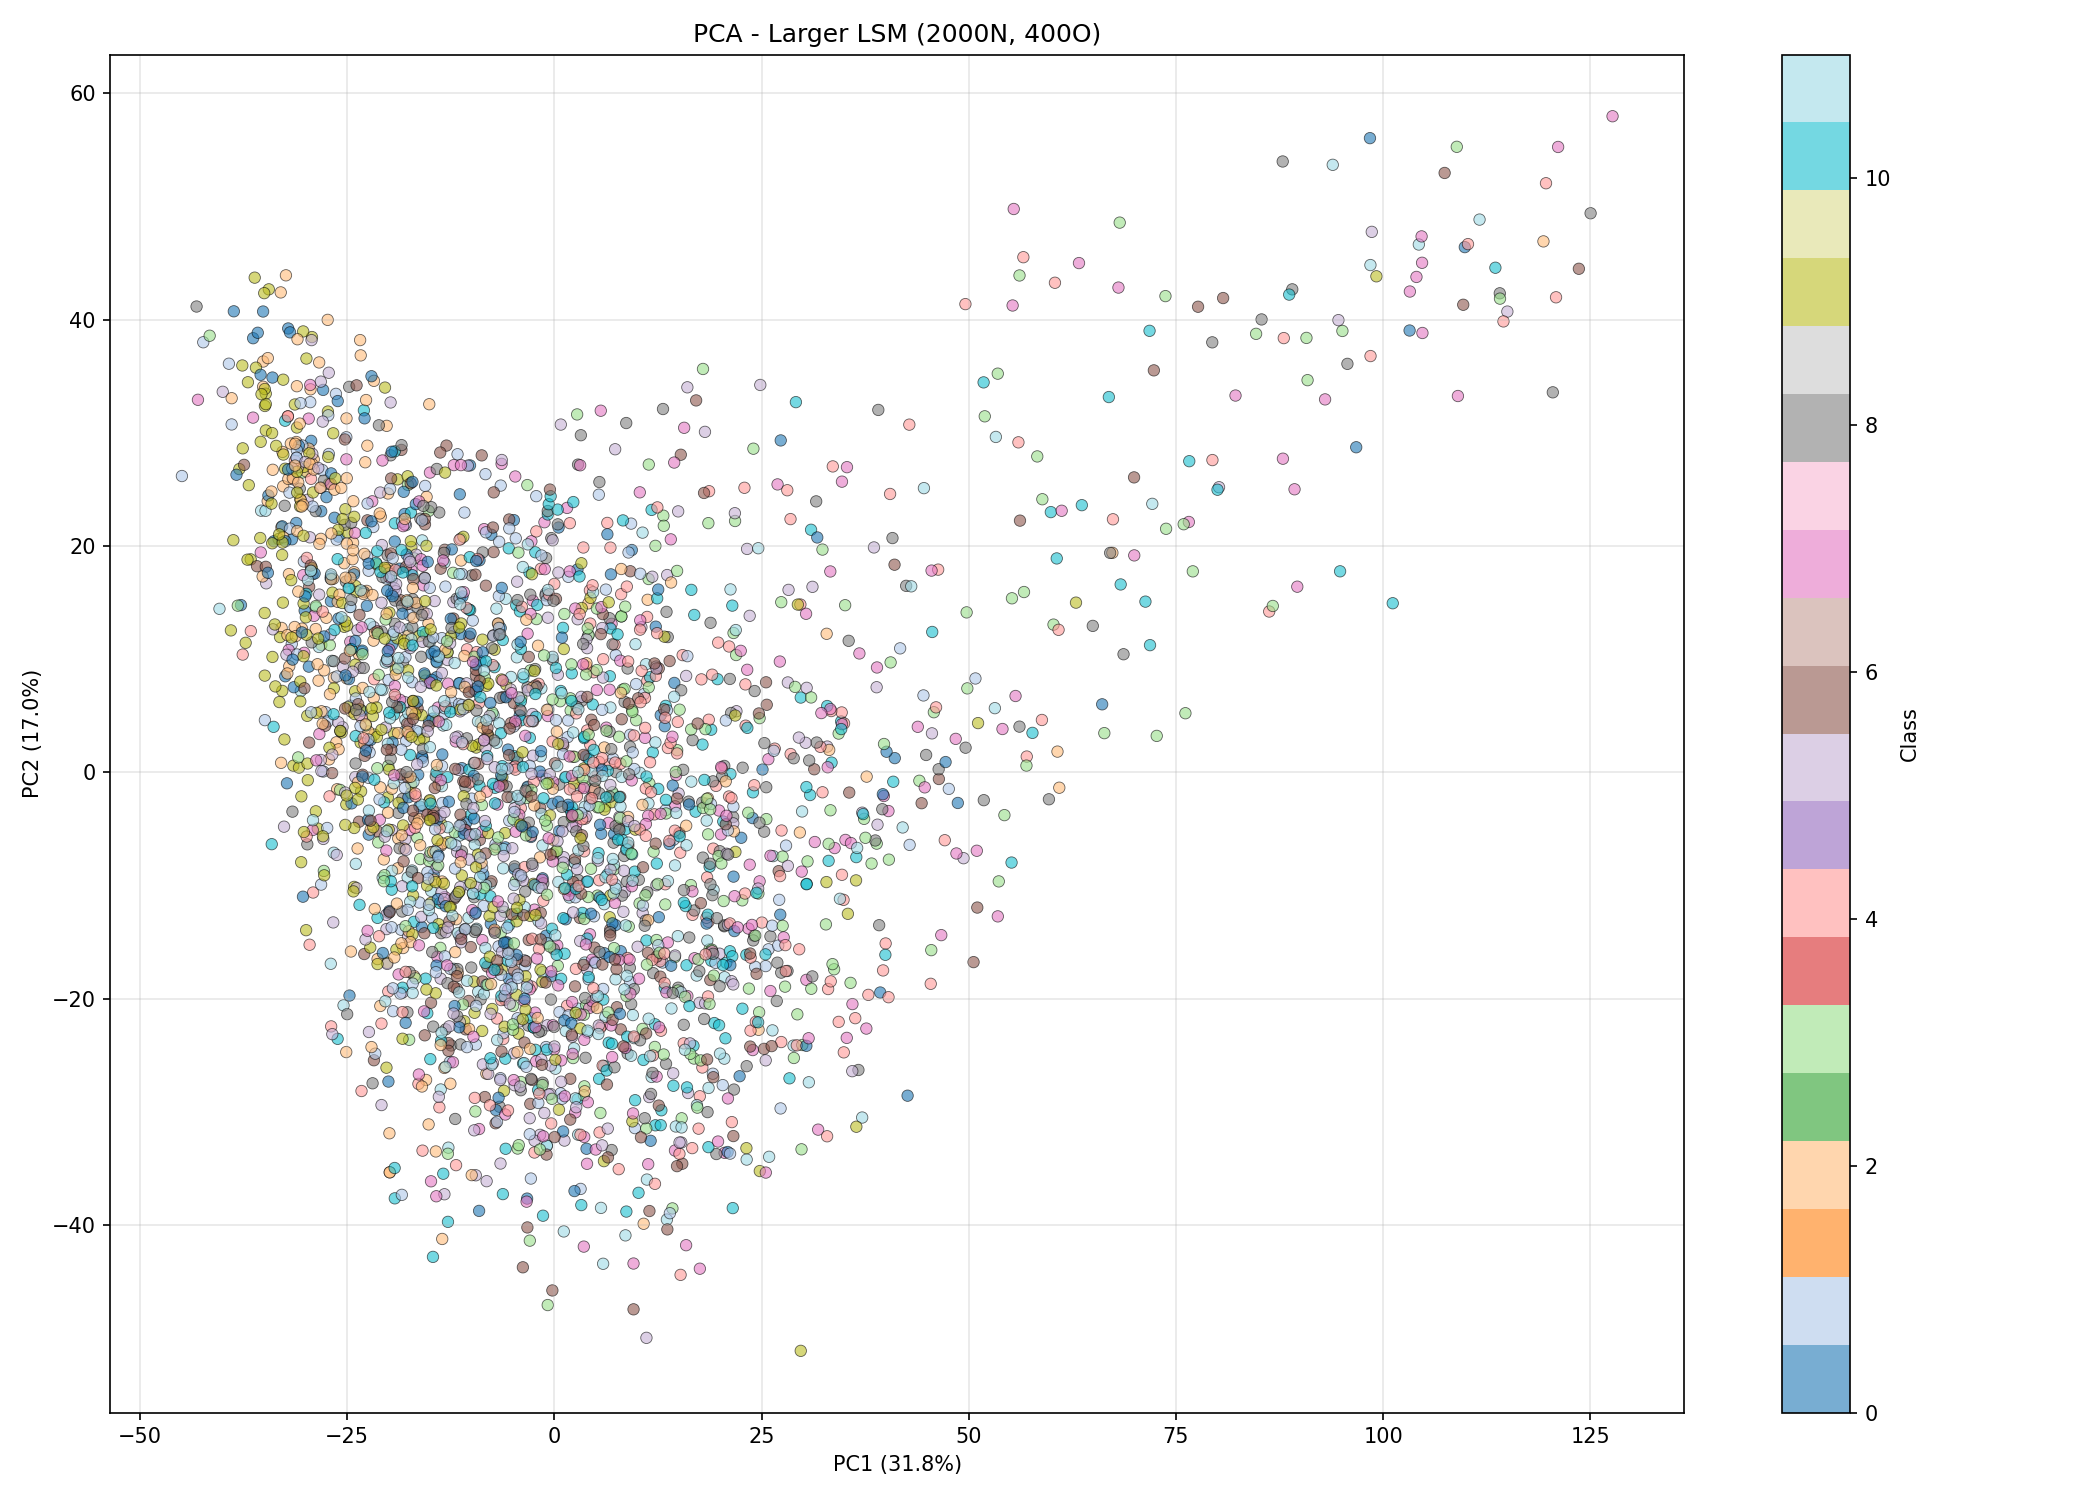
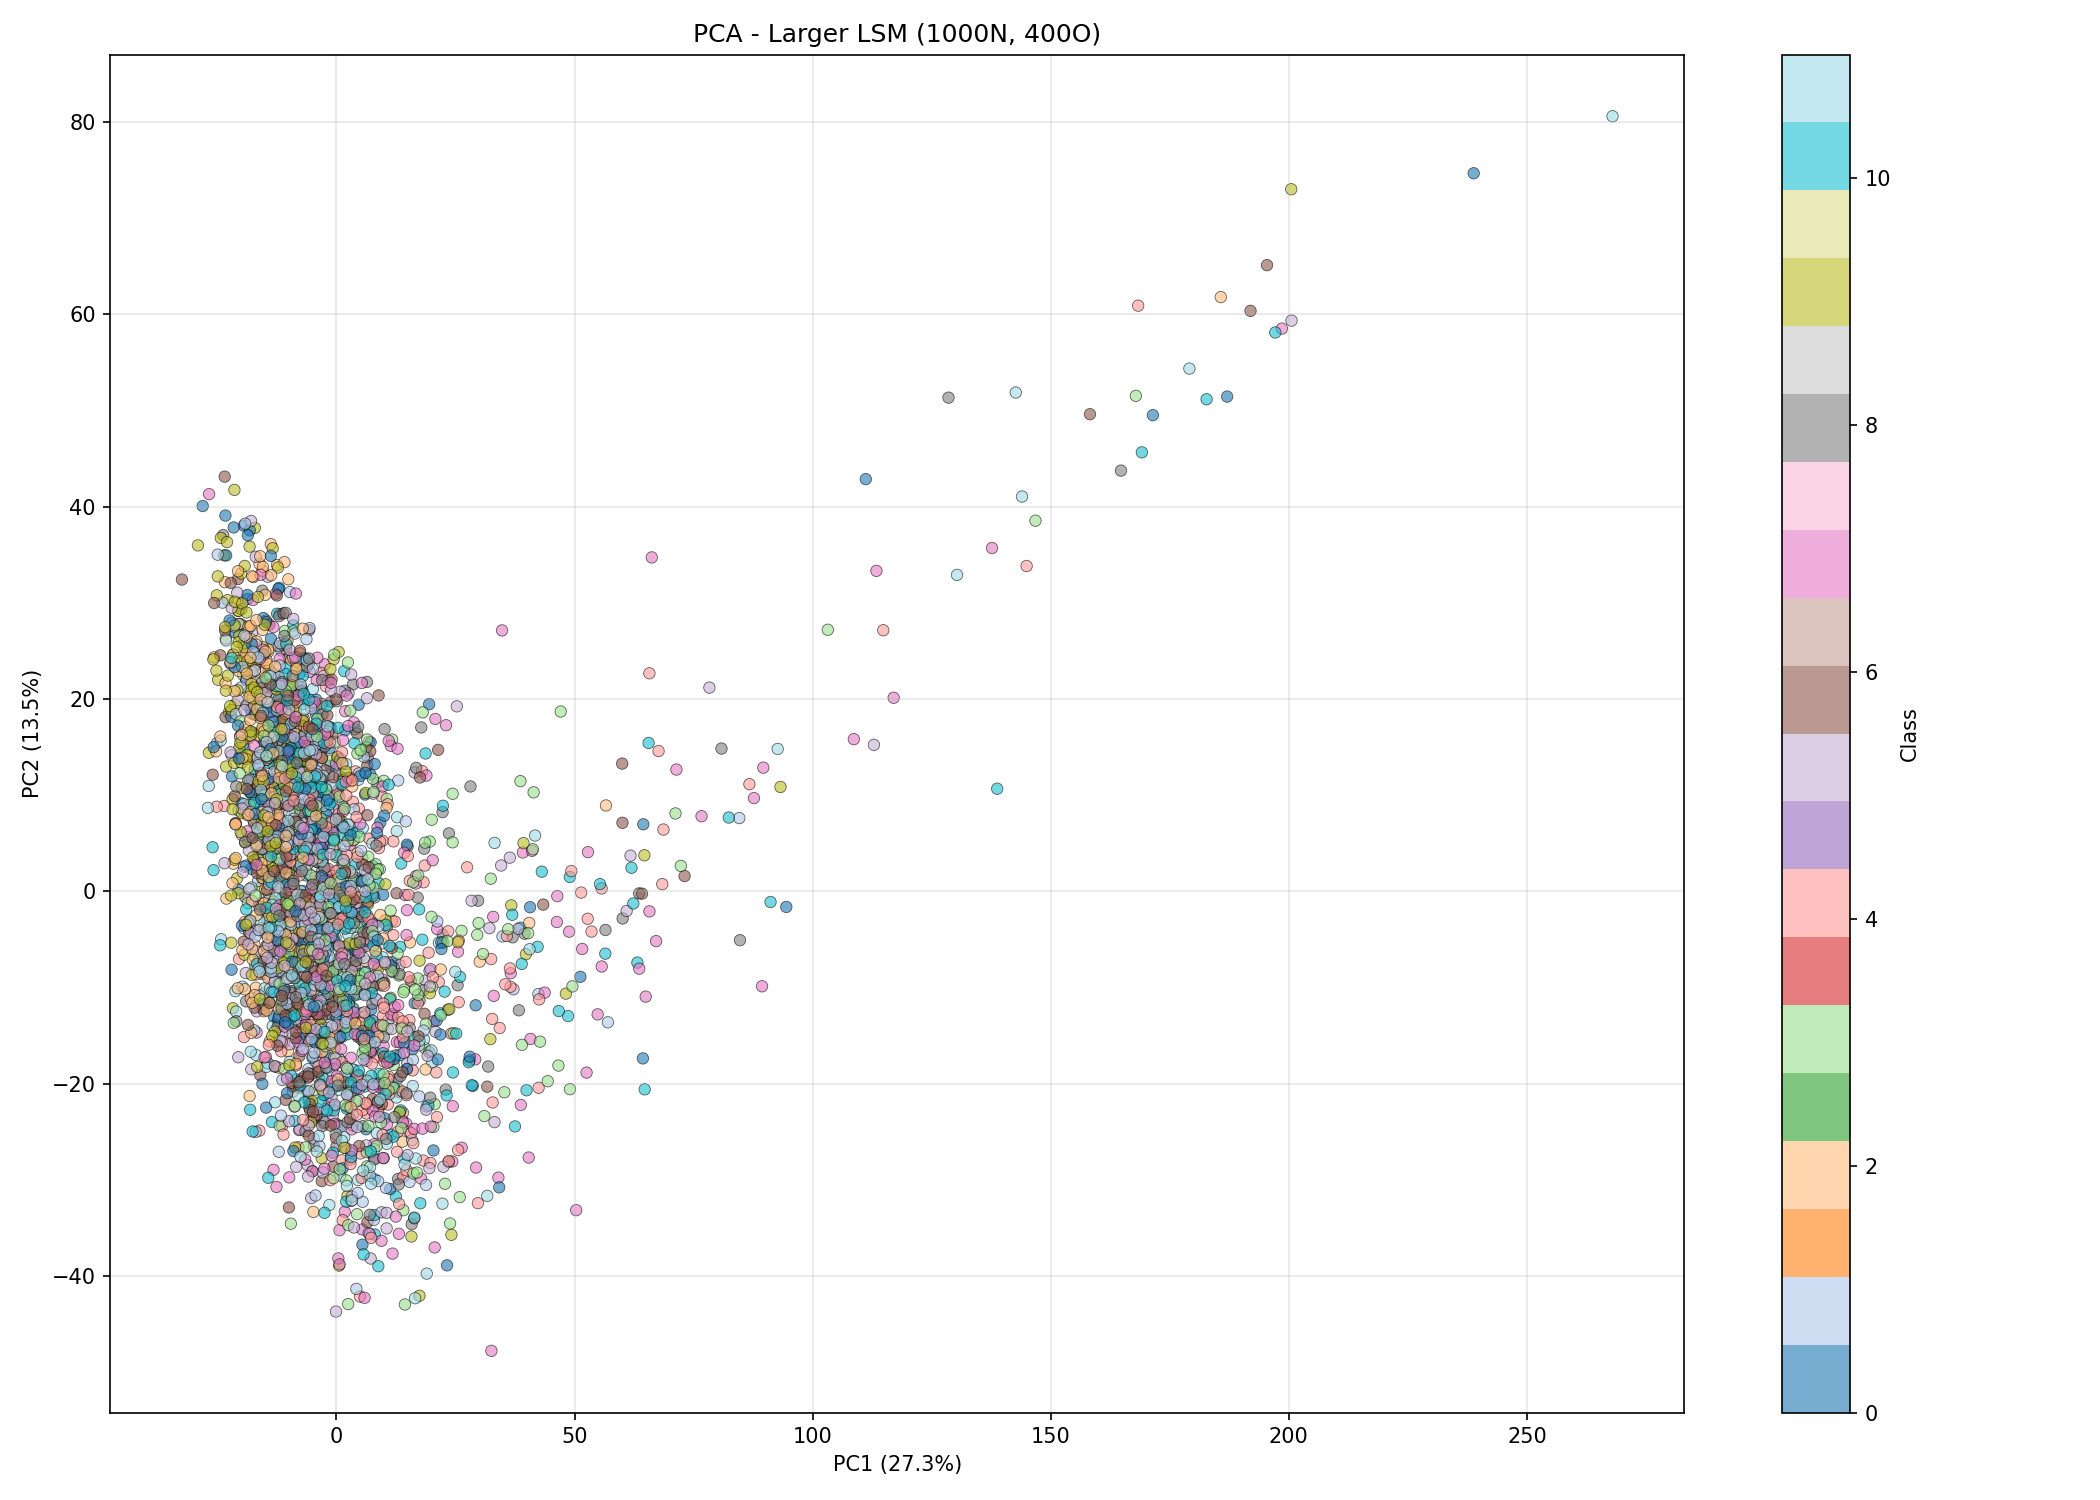
hysteresis implemented

diff --git a/spect_to_spike_train.py b/spect_to_spike_train.py
@@ -1,40 +1,33 @@
-"""
-PURE SIGNAL REDUNDANCY - No jittering, just multiple pathways
-
-Each spike train is sent to multiple input neurons EXACTLY as-is.
-This creates:
-- Multiple entry points into the reservoir for the same signal
-- Different random connections to reservoir neurons
-- Potentially more robust feature extraction through averaging
-
-Key: The redundancy benefit comes from DIFFERENT reservoir connections,
-     not from adding noise to the input.
-"""
-
 import librosa
 import numpy as np
 import matplotlib.pyplot as plt
 from pathlib import Path
 from scipy.ndimage import zoom
 from tqdm import tqdm
+import warnings # <-- Added import
 
 SAMPLE_RATE = 16000 # 8Hz / 32Hz
 DURATION = 1.0
-N_MELS = 80  # Base number of mel bins
+N_MELS = 200  # Base number of mel bins
 TIME_BINS = 100
-SPIKE_THRESHOLDS = [0.60, 0.70, 0.80, 0.90]  # provare rate encoding invece che temoporal   
+SPIKE_THRESHOLDS = [0.60, 0.70, 0.80, 0.90]     
+HYSTERESIS_GAP = 0.05 # <-- Added Hysteresis Gap
 MAX_SAMPLES_PER_CLASS = 1000
 VISUALIZE_FIRST_SAMPLE = False
 
 # PURE REDUNDANCY - just replication
-REDUNDANCY_FACTOR = 3  # Each mel bin repeated 3 times
+REDUNDANCY_FACTOR = 1  
 
 np.random.seed(42)
 
 def load_audio_file(filepath: Path) -> np.ndarray | None:
     """Load audio file"""
     try:
-        audio, _ = librosa.load(filepath, sr=SAMPLE_RATE, duration=DURATION, mono=True)
+        # Suppress warnings if file is < DURATION
+        with warnings.catch_warnings():
+            warnings.simplefilter("ignore")
+            audio, _ = librosa.load(filepath, sr=SAMPLE_RATE, duration=DURATION, mono=True)
+            
         target_length = int(SAMPLE_RATE * DURATION)
         if len(audio) < target_length:
             audio = np.pad(audio, (0, target_length - len(audio)))
@@ -47,19 +40,36 @@ def load_audio_file(filepath: Path) -> np.ndarray | None:
 
 def audio_to_mel_spectrogram(audio: np.ndarray) -> np.ndarray:
     """Convert audio to mel spectrogram"""
-    hop_length = int(len(audio) / TIME_BINS)
+    # Ensure hop_length is at least 1
+    hop_length = max(1, int(len(audio) / TIME_BINS))
+    
     mel_spec = librosa.feature.melspectrogram(
         y=audio, sr=SAMPLE_RATE, n_mels=N_MELS, hop_length=hop_length
     )
     mel_spec_db = librosa.power_to_db(mel_spec, ref=np.max)
-    mel_spec_norm = (mel_spec_db - mel_spec_db.min()) / (mel_spec_db.max() - mel_spec_db.min() + 1e-8)
     
+    # Handle silence or near-silence
+    mel_min = mel_spec_db.min()
+    mel_max = mel_spec_db.max()
+    if (mel_max - mel_min) < 1e-8:
+        return np.zeros((N_MELS, TIME_BINS), dtype=np.float32) # Return zeros for silence
+        
+    mel_spec_norm = (mel_spec_db - mel_min) / (mel_max - mel_min + 1e-8)
+    
+    # Resize to exactly TIME_BINS
     if mel_spec_norm.shape[1] != TIME_BINS:
-        zoom_factor = TIME_BINS / mel_spec_norm.shape[1]
-        mel_spec_norm = zoom(mel_spec_norm, (1, zoom_factor), order=1)
-    
+        try:
+            zoom_factor = TIME_BINS / mel_spec_norm.shape[1]
+            mel_spec_norm = zoom(mel_spec_norm, (1, zoom_factor), order=1)
+        except ValueError as e:
+            print(f"Warning: Zoom failed (shape {mel_spec_norm.shape}, factor {zoom_factor}): {e}")
+            # Fallback: create an empty array of the correct shape
+            return np.zeros((N_MELS, TIME_BINS), dtype=np.float32)
+            
+    # Ensure shape is exact after zoom/padding
     return mel_spec_norm[:, :TIME_BINS]
 
+# --- This is the old function (which is no longer called) ---
 def convert_mels_to_spikes_temporal(mel_spec: np.ndarray, thresholds: list) -> np.ndarray:
     """Convert mel spectrogram to temporal spike encoding"""
     if not thresholds:
@@ -77,9 +87,47 @@ def convert_mels_to_spikes_temporal(mel_spec: np.ndarray, thresholds: list) -> n
         
         for time_bin in range(n_time):
             output_time = time_bin * n_threshold_steps + time_offset
-            X_spikes[:, output_time] = exceeded[:, time_bin]
+            if output_time < X_spikes.shape[1]: # Bounds check
+                X_spikes[:, output_time] = exceeded[:, time_bin]
     
     return X_spikes
+
+# --- HERE IS THE RESTORED HYSTERESIS FUNCTION ---
+def convert_mels_to_spikes_hysteresis(mel_spec, thresholds, hysteresis_gap=0.05):
+    """
+    Converts mel spectrogram to spikes using hysteresis.
+    Outputs a '1' for every time step the neuron is in the 'active' state.
+    """
+    n_mels, n_time = mel_spec.shape
+    n_thresholds = len(thresholds)
+    
+    # Output shape is (n_mels, n_time * n_thresholds)
+    # This interleaves the threshold channels
+    spikes = np.zeros((n_mels, n_time * n_thresholds), dtype=np.uint8)
+    
+    # We iterate through thresholds from high to low
+    for t_idx, threshold in enumerate(sorted(thresholds, reverse=True)):
+        active = np.zeros(n_mels, dtype=bool) # Memory for each neuron
+        lower_bound = threshold - hysteresis_gap
+        
+        for time_bin in range(n_time):
+            # Conditions to change state
+            rising = (mel_spec[:, time_bin] > threshold) & ~active
+            falling = (mel_spec[:, time_bin] < lower_bound) & active
+            
+            # Update the state
+            active[rising] = True
+            active[falling] = False
+            
+            # --- Sustained Pulse Logic ---
+            # Output the 'active' state for this time step
+            # The t_idx ensures we write to the correct channel
+            output_time = time_bin * n_thresholds + t_idx
+            if output_time < spikes.shape[1]: # Bounds check
+                spikes[:, output_time] = active.astype(np.uint8)
+            
+    return spikes
+# ----------------------------------------------------
 
 def create_pure_redundancy(spike_train: np.ndarray, redundancy_factor: int) -> np.ndarray:
     """
@@ -158,6 +206,7 @@ def create_dataset():
     print(f"  Redundancy factor: {REDUNDANCY_FACTOR}x")
     print(f"  Input neurons per sample: {N_MELS * REDUNDANCY_FACTOR}")
     print(f"  Thresholds: {SPIKE_THRESHOLDS}")
+    print(f"  Encoding: Hysteresis (Gap: {HYSTERESIS_GAP})") # <-- Updated print
     print(f"\n  Strategy: Each spike train sent to {REDUNDANCY_FACTOR} different")
     print(f"            input neurons with IDENTICAL patterns.")
     print(f"            Benefit from DIFFERENT reservoir connections only.")
@@ -166,6 +215,12 @@ def create_dataset():
     for label_idx, command in enumerate(COMMANDS):
         print(f"Processing '{command}' (label {label_idx})...")
         command_dir = BASE_DATASET_PATH / command
+        
+        # Check if directory exists
+        if not command_dir.is_dir():
+            print(f"  Warning: Directory not found, skipping: {command_dir}")
+            continue
+
         audio_files = sorted(list(command_dir.glob("*.wav")))[:MAX_SAMPLES_PER_CLASS]
         
         if not audio_files:
@@ -182,14 +237,19 @@ def create_dataset():
             
             mel_spectrogram = audio_to_mel_spectrogram(audio_data)
             
-            # Convert to base spike train
-            base_spike_train = convert_mels_to_spikes_temporal(mel_spectrogram, SPIKE_THRESHOLDS)
+            # --- MODIFIED: Calling hysteresis function ---
+            base_spike_train = convert_mels_to_spikes_hysteresis(
+                mel_spectrogram, 
+                SPIKE_THRESHOLDS, 
+                HYSTERESIS_GAP
+            )
+            # ---------------------------------------------
             
             # Create PURE redundancy - just exact replication
             redundant_spike_train = create_pure_redundancy(base_spike_train, REDUNDANCY_FACTOR)
             
             # Verify it's exactly redundant (for sanity check)
-            if i == 0:
+            if i == 0 and REDUNDANCY_FACTOR > 1: # Added check for factor > 1
                 # Check first sample: each group of REDUNDANCY_FACTOR rows should be identical
                 for mel_idx in range(min(5, N_MELS)):  # Check first 5 mel bins
                     start = mel_idx * REDUNDANCY_FACTOR
@@ -216,6 +276,15 @@ def create_dataset():
         
         all_spike_counts.extend(command_spike_counts)
     
+    # --- Check if any data was processed ---
+    if not all_spike_trains:
+        print("\n" + "="*60)
+        print("ERROR: No audio files were successfully processed.")
+        print(f"Please check the path: {BASE_DATASET_PATH.resolve()}")
+        print("="*60)
+        return # Exit if no data
+    # ---------------------------------------
+
     # Convert to arrays
     X_spikes = np.array(all_spike_trains, dtype=np.uint8)
     y_labels = np.array(all_labels, dtype=np.int32)
@@ -234,10 +303,11 @@ def create_dataset():
     print(f"  Min/Max: {np.min(all_spike_counts)} / {np.max(all_spike_counts)}")
     
     # Note about redundancy
-    base_spikes = np.mean(all_spike_counts) / REDUNDANCY_FACTOR
-    print(f"\n  Base spikes (before redundancy): ~{base_spikes:.1f}")
-    print(f"  Multiplication factor: {REDUNDANCY_FACTOR}x")
-    print(f"  Total spikes (with redundancy): {np.mean(all_spike_counts):.1f}")
+    if REDUNDANCY_FACTOR > 1: # Only print this if redundancy is active
+        base_spikes = np.mean(all_spike_counts) / REDUNDANCY_FACTOR
+        print(f"\n  Base spikes (before redundancy): ~{base_spikes:.1f}")
+        print(f"  Multiplication factor: {REDUNDANCY_FACTOR}x")
+        print(f"  Total spikes (with redundancy): {np.mean(all_spike_counts):.1f}")
     
     print("="*60)
     
@@ -246,12 +316,15 @@ def create_dataset():
     np.savez_compressed(output_filename, X_spikes=X_spikes, y_labels=y_labels)
     print(f"\n✅ Saved to '{output_filename}'")
     
-    print("\n💡 How this helps:")
-    print("   - Each mel frequency is represented by 3 input neurons")
-    print("   - All 3 send IDENTICAL spike patterns")
-    print("   - But connect to DIFFERENT random subsets of reservoir neurons")
-    print("   - LSM integrates across these diverse pathways")
-    print("   - Result: More robust features, better generalization")
+    if REDUNDANCY_FACTOR > 1: # Only print if redundancy is active
+        print("\n💡 How this helps:")
+        print("   - Each mel frequency is represented by 3 input neurons")
+        print("   - All 3 send IDENTICAL spike patterns")
+        print("   - But connect to DIFFERENT random subsets of reservoir neurons")
+        print("   - LSM integrates across these diverse pathways")
+        print("   - Result: More robust features, better generalization")
+    else:
+        print("\n💡 Redundancy disabled.")
 
 if __name__ == "__main__":
     create_dataset()

diff --git a/extract_lsm_features.py b/extract_lsm_features.py
@@ -1,12 +1,3 @@
-"""
-Larger, more complex LSM for better feature discrimination
-
-Key changes:
-- More neurons (2000 vs 1000)
-- More output neurons (800 vs 400)
-- Better connectivity
-"""
-
 import numpy as np
 from snnpy.snn import SNN, SimulationParams
 from sklearn.model_selection import train_test_split
@@ -26,7 +17,7 @@ SMALL_WORLD_P = 0.2
 SMALL_WORLD_K = int(0.10 * NUM_NEURONS * 2)  
 
 BASE_MEAN_WEIGHT = 0.007
-WEIGHT_MULTIPLIERS = [0.4, 0.5, 0.6, 0.7, 0.8, 0.9, 1.0, 1.1, 1.2, 1.3, 1.4, 1.5]
+WEIGHT_MULTIPLIERS = [1.0]
 
 np.random.seed(42)
 
